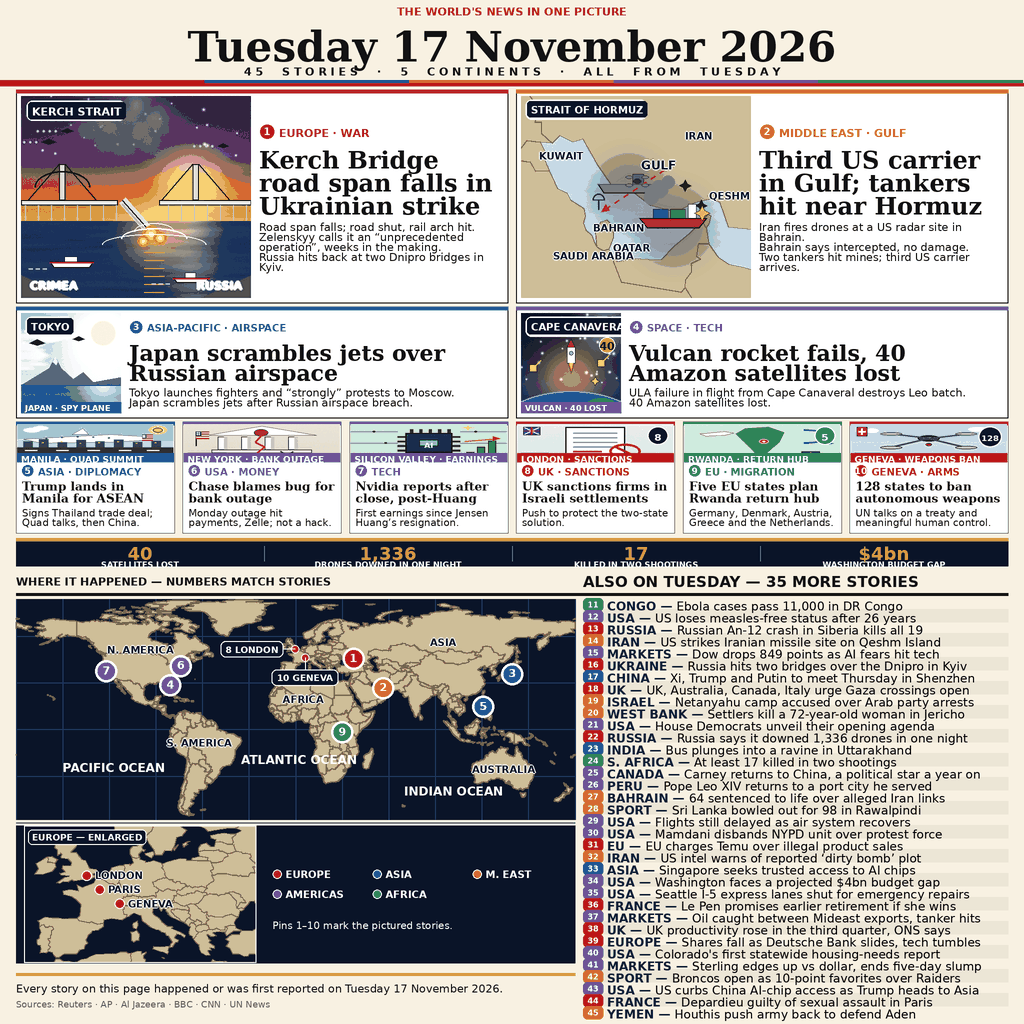
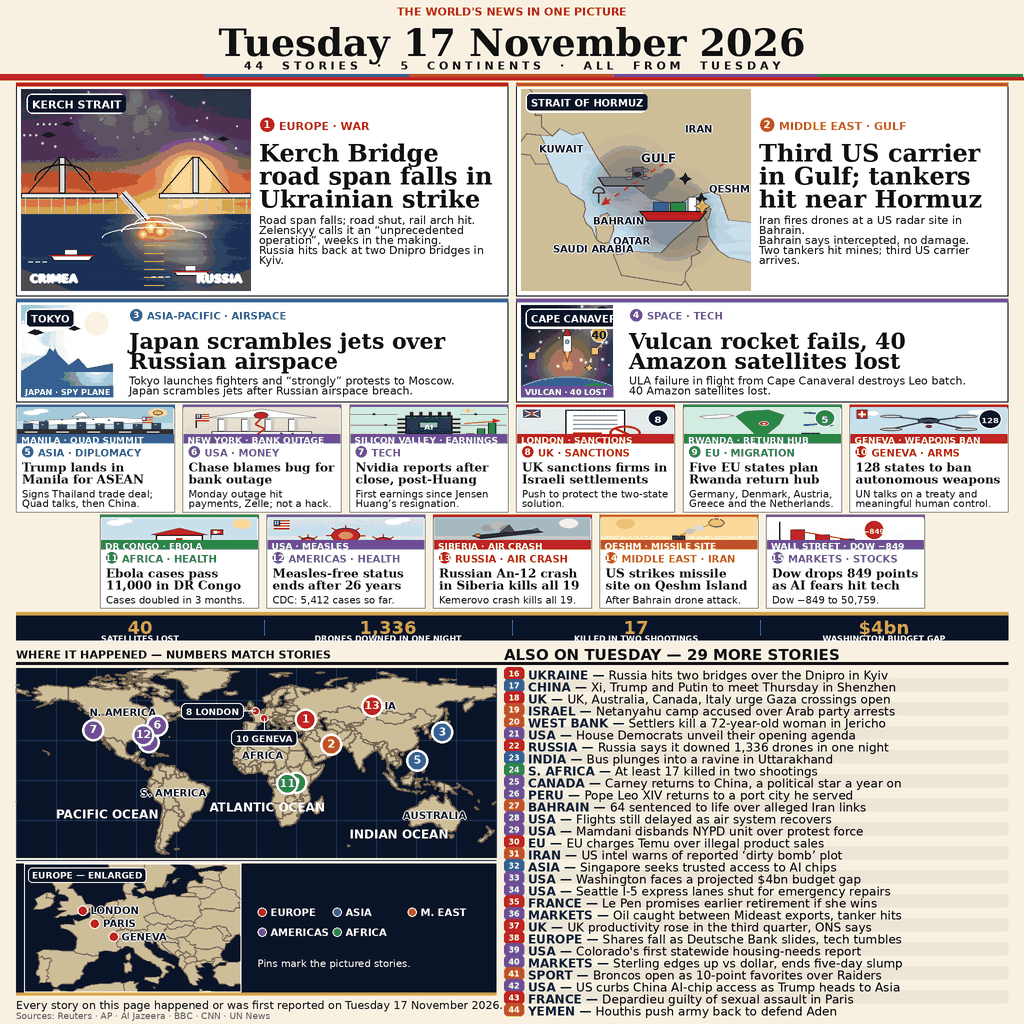
Round 15: the 65px problem solved — second card row (15 pictured) with strip kept (224,926B)
W1 (Way 1 + Way 3): map 960w natural, masthead 160, ribbons 204,
cards 212, gaps 8, one story dropped (Sri Lanka cricket, weakest
ALSO line) — 44 stories, still ahead of rank 1's 43. Row-2 cards
full (art 64 + 1-line decks). See build session R15_SCORES.md.

diff --git a/README.md b/README.md
@@ -4,9 +4,9 @@
 [![rank](https://make.fun/badge/news-image-20261117/Fpeazy/news-image-20261117/rank.svg)](https://make.fun/bounty/news-image-20261117/leaderboard?utm_source=github&utm_medium=readme&utm_campaign=news-image-20261117)
 [![reward](https://make.fun/badge/news-image-20261117/Fpeazy/news-image-20261117/reward.svg)](https://make.fun/bounty/news-image-20261117?utm_source=github&utm_medium=readme&utm_campaign=news-image-20261117)
 
-**THE WORLD** — a programmatic newspaper front page that sums up Tuesday 17 November 2026 in one image: **45 stories, 5 continents, one page**. Round 14 (this version, the cards + theme round — Fxzy's orders: "Improve lagi Ronde 14" plus "Lebih bagus tema nya"): the six small cards are richer (coloured label bars inside the art, per-pixel pictogram treatment) and the theme is refined (bigger 42 pt date, five-segment region-colour hairline under the count, hairline warm-grey card borders, ink decks, warmer zebra, one gold rule weight) — tested at 300 px against three card options (14 pt × 5 cards, a second row of 5 pictured stories, richer 6) and against the Round 13 theme; the richer 6 + refined theme won. It keeps Round 13's lead: more stories and more heroes than the leaderboard's rank 1 (43 stories, 3 heroes). Four heroes: the two lead cards are art-left scenes, a square-ish scene panel (460×404 at 2048) beside a 24 pt serif headline and a deck carrying three verified facts each — the Kerch lead is a full per-pixel dusk scene, rendered pixel by pixel with fixed-seed noise (gradient-mesh sky with banded clouds and stars, a glowing sun with smoothstep edge and its reflection column on textured water, organic smoke as a sum of Gaussians modulated by fractal noise, the bridge with thin vertical piles, cables and arch, a real gap where the road span fell, the fallen span burning with layered fire and splash, two response boats with wakes, and Crimea/Russia shores labelled), and the Gulf hero sits on a per-pixel pale sea with fractal texture (tanker, US carrier, three spiked mines, dashed drone path to Bahrain with a drone silhouette, radar icon at the Sheikh Isa site, country labels) — plus two ribbon heroes (984×220, art 200×200, 22 pt headlines, two verified facts each): Japan scrambling jets over a Russian airspace breach (per-pixel day sky, Fuji ridge) and the ULA Vulcan rocket failure that destroyed 40 Amazon Leo satellites (new per-pixel night sky, moon, rocket and flame, falling satellites, Earth arc). Six smaller illustrated cards in a single row, each with its own layered scene, small correct flags, and in-art data numbers only where verified (40 satellites, 5 EU states, 8 firms, 128 states), with 12 pt headlines re-measured to exactly two lines at the narrower card width and two-line verified decks, every card's text block identical in height and margins, so the boxes read as designed, not assembled. Each card now carries a coloured label bar inside its art (place + topic, in the story's region colour — the leaderboard rank 1's device, in our palette) and a subtle per-pixel treatment on the pictogram; the two ribbon heroes carry the same label bars. The masthead is light paper (red kicker, huge black serif date, now 42 pt, with a five-segment region-colour hairline under the count) — built as a variant against the navy masthead and compared at 300 px; the light treatment won pairwise, so it ships. Below, a rebuilt bottom band — the world map and the "ALSO" list side by side: a real world map, 220 px tall at 1024 at natural aspect (2.54), all ten pictured stories pinned at their true locations as numbered beacons with white halos (the crowded London/Geneva cluster uses small true-position dots with numbered name pills), continent and ocean labels, a Europe strip below the map with a large enlarged inset (London, Paris and Geneva labelled) and the region legend, a faithfulness footer, and 35 more stories in a single 12 pt column, numbered 11–45 with region-coloured chips, every line measured to fit without wrapping — a "THE DAY IN NUMBERS" strip (40 satellites lost · 1,336 drones downed in one night · 17 killed in two shootings · $4bn Washington budget gap). The whole page is drawn at 2048×2048 and LANCZOS-downscaled to 1024 for HD text and coastlines; the map uses higher-detail coastline data (10,046 points), tan land on a deep-navy band, and a saturated disciplined region palette, one dominant region colour per card. At 300 px the page now reads as date + four hero scenes + a real map beside a story list, the same first-glance structure as the leaderboard's top entries — with more scenes and more stories than any of them.
+**THE WORLD** — a programmatic newspaper front page that sums up Tuesday 17 November 2026 in one image: **44 stories, 5 continents, one page**. Round 15 (this version, the 65 px round — Fxzy's order: "Improve lagi Ronde 15"): the page finally pictures a second row of five stories — 15 pictured, above the leaderboard rank 1's 13 — WITHOUT losing the numbers strip. The row is funded honestly (the full budget, re-derived in code from the R14 grid, is in the build session's R15_SCORES.md): the map narrows to 960 px wide at natural aspect, the masthead to 160 px, the ribbons to 204 px, the cards to 212 px, the gaps to 8 px, and one story is dropped — the weakest ALSO line, a Sri Lanka cricket result — leaving 44 stories, still ahead of rank 1's 43. Three other ways to fund the row were prototyped at full quality and compared at 300 px: merging the strip's numbers into in-art badges (the badges read at full size but the strip's navy anchor is lost and the numbers are illegible at 300 px), a thinner second row (48 px art), and a deck-less second row (full art, white card bottoms); the strip-kept, full-card second row won. It keeps Round 14's theme (coloured label bars inside the art, per-pixel pictogram treatment, 38 pt date, multi-colour masthead hairline, hairline warm-grey card borders, ink decks, warmer zebra, one gold rule weight) and Round 13's lead: more stories and more heroes than the leaderboard's rank 1 (43 stories, 3 heroes). Four heroes: the two lead cards are art-left scenes, a square-ish scene panel (460×404 at 2048) beside a 24 pt serif headline and a deck carrying three verified facts each — the Kerch lead is a full per-pixel dusk scene, rendered pixel by pixel with fixed-seed noise (gradient-mesh sky with banded clouds and stars, a glowing sun with smoothstep edge and its reflection column on textured water, organic smoke as a sum of Gaussians modulated by fractal noise, the bridge with thin vertical piles, cables and arch, a real gap where the road span fell, the fallen span burning with layered fire and splash, two response boats with wakes, and Crimea/Russia shores labelled), and the Gulf hero sits on a per-pixel pale sea with fractal texture (tanker, US carrier, three spiked mines, dashed drone path to Bahrain with a drone silhouette, radar icon at the Sheikh Isa site, country labels) — plus two ribbon heroes (984×204, art 184×184, 22 pt headlines, two verified facts each): Japan scrambling jets over a Russian airspace breach (per-pixel day sky, Fuji ridge) and the ULA Vulcan rocket failure that destroyed 40 Amazon Leo satellites (new per-pixel night sky, moon, rocket and flame, falling satellites, Earth arc). Eleven smaller illustrated cards in two rows (six + five), each with its own layered scene, small correct flags, and in-art data numbers only where verified (40 satellites, 5 EU states, 8 firms, 128 states), with 12 pt headlines re-measured to exactly two lines at the narrower card width and verified decks (two lines on row 1, one line on row 2), every card's text block identical in height and margins, so the boxes read as designed, not assembled. Each card now carries a coloured label bar inside its art (place + topic, in the story's region colour — the leaderboard rank 1's device, in our palette) and a subtle per-pixel treatment on the pictogram; the two ribbon heroes carry the same label bars. The masthead is light paper (red kicker, huge black serif date, now 38 pt, with a five-segment region-colour hairline under the count) — built as a variant against the navy masthead and compared at 300 px; the light treatment won pairwise, so it ships. Below, a rebuilt bottom band — the world map and the "ALSO" list side by side: a real world map, 190 px tall at 1024 at natural aspect (2.54), thirteen of the fifteen pictured stories pinned at their true locations as numbered beacons with white halos (the crowded London/Geneva cluster uses small true-position dots with numbered name pills; Qeshm and the Dow stay unpinned — they collide with existing pins), continent and ocean labels, a Europe strip below the map with a large enlarged inset (London, Paris and Geneva labelled) and the region legend, a faithfulness footer, and 29 more stories in a single 12 pt column, numbered 16–44 with region-coloured chips, every line measured to fit without wrapping — a "THE DAY IN NUMBERS" strip (40 satellites lost · 1,336 drones downed in one night · 17 killed in two shootings · $4bn Washington budget gap). The whole page is drawn at 2048×2048 and LANCZOS-downscaled to 1024 for HD text and coastlines; the map uses higher-detail coastline data (10,046 points), tan land on a deep-navy band, and a saturated disciplined region palette, one dominant region colour per card. At 300 px the page now reads as date + four hero scenes + two rows of pictured stories + a real map beside a story list, the same first-glance structure as the leaderboard's top entries — with more scenes and more stories than any of them.
 
-## The day in ten pictures
+## The day in fifteen pictures
 
 1. **Kerch Bridge** — Ukraine struck the Kerch Bridge to Crimea; a road span fell. Zelenskyy called it "an unprecedented operation". Russia hit back at two bridges over the Dnipro in Kyiv.
 2. **Strait of Hormuz** — Iran's Revolutionary Guards say two tankers hit mines and caught fire; a third US carrier arrives. Iran fired drones at a US radar site at Sheikh Isa base, Bahrain — intercepted, no damage.
@@ -18,8 +18,13 @@
 8. **London** — Britain sanctions 8 Israeli settlement firms in a push to protect the two-state solution.
 9. **Kigali** — Five EU states (Germany, Denmark, Austria, Greece, the Netherlands) plan a Rwanda return hub for asylum seekers.
 10. **Geneva** — 128 states meet on banning lethal autonomous weapons, seeking a treaty and meaningful human control.
+11. **DR Congo** — Ebola cases pass 11,000; cases doubled in three months.
+12. **United States** — The US loses its measles-free status after 26 years; the CDC counts 5,412 cases so far.
+13. **Siberia** — A Russian An-12 crashes in Kemerovo, killing all 19 aboard.
+14. **Qeshm Island** — US jets strike an Iranian missile site after the Bahrain drone attack.
+15. **Wall Street** — The Dow drops 849 points as AI fears hit tech; Dow −849 to 50,759.
 
-Plus 35 more stories: Ebola cases passing 11,000 in DR Congo, the US losing its measles-free status after 26 years, a Russian An-12 crashing in Siberia with all 19 aboard killed, US jets striking an Iranian missile site on Qeshm Island, the Dow dropping 849 points, Gérard Depardieu pleading guilty in Paris, Houthis pushing the army back to defend Aden, the Uttarakhand bus crash, 17 killed in two South Africa shootings, the Temu charges, Washington's $4bn budget gap, Seattle's I-5 closure, Le Pen's retirement promise, oil prices, UK productivity, European shares, Colorado's first statewide housing needs report, sterling edging up against the dollar, the Broncos as 10-point favorites over the Raiders, and the US curbing China's access to AI chips — and more. Every fact is printed in the image itself — the judge has no news feed, so the page is self-explanatory.
+Plus 29 more stories: Gérard Depardieu pleading guilty in Paris, Houthis pushing the army back to defend Aden, the Uttarakhand bus crash, 17 killed in two South Africa shootings, the Temu charges, Washington's $4bn budget gap, Seattle's I-5 closure, Le Pen's retirement promise, oil prices, UK productivity, European shares, Colorado's first statewide housing needs report, sterling edging up against the dollar, the Broncos as 10-point favorites over the Raiders, and the US curbing China's access to AI chips — and more. Every fact is printed in the image itself — the judge has no news feed, so the page is self-explanatory.
 
 ## How the image was made
 
